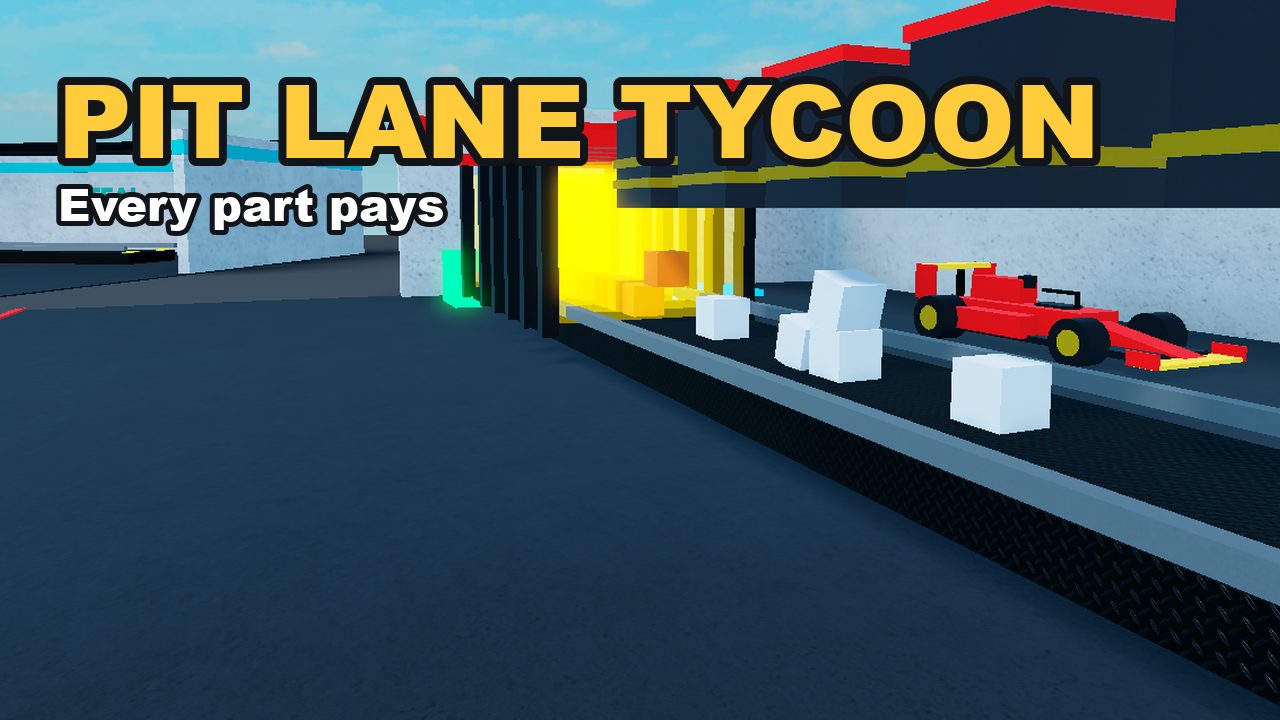
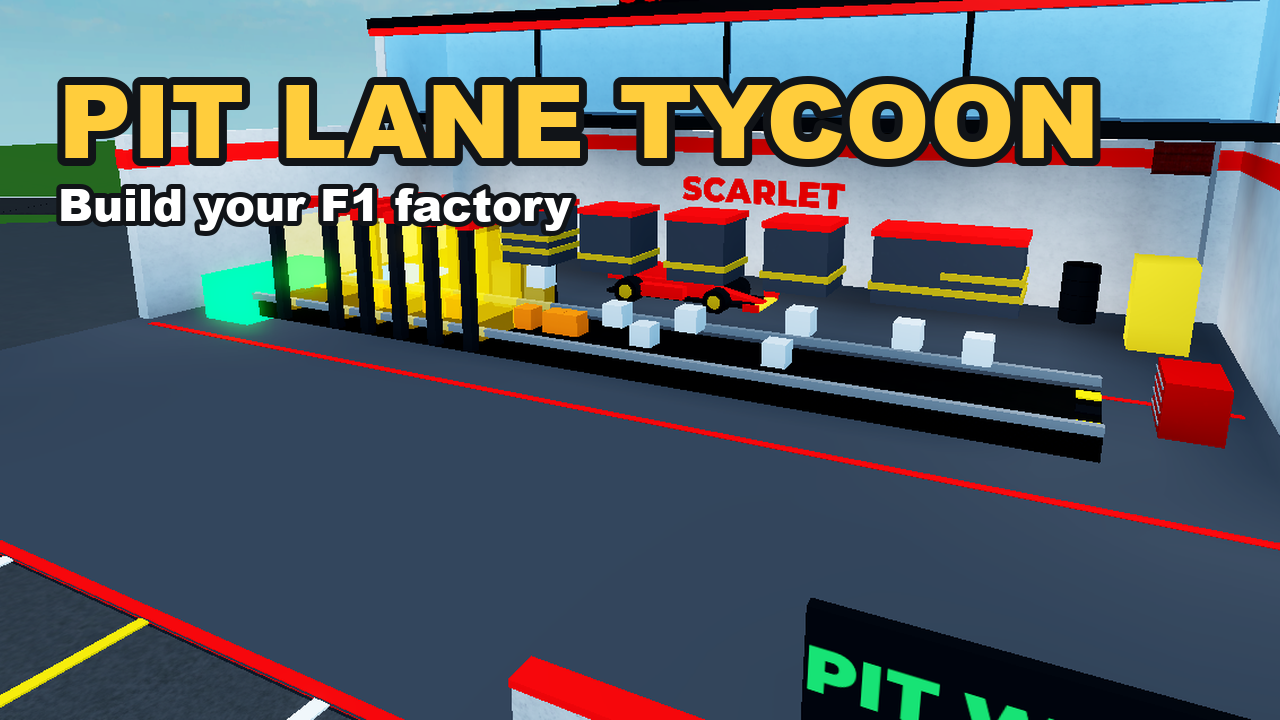
Thumbnails remade from the finished game: the race car at the gantry, the full garage, the line, the paddock
Four thumbnails now (the first is the car on the track) and the icon.
Photos hide the plot's name board, a blank red block without its label.

diff --git a/tools/studio-test/thumbnails.py b/tools/studio-test/thumbnails.py
@@ -71,12 +71,13 @@ def main() -> None:
     shots, out = Path(sys.argv[1]), Path(sys.argv[2])
     out.mkdir(parents=True, exist_ok=True)
     views = {}
-    for name in ("hero", "car", "line", "paddock"):
+    for name in ("race", "hero", "car", "line", "paddock"):
         vp = viewport(Image.open(shots / f"{name}.png"))
         views[name] = vp.crop((0, int(vp.height * 0.17), vp.width, vp.height))  # below the menu buttons
-    titled(views["hero"], (1280, 720), "PIT LANE TYCOON", "Build your F1 factory").save(out / "thumbnail-1.png")
-    titled(views["line"], (1280, 720), "PIT LANE TYCOON", "Every part pays").save(out / "thumbnail-2.png")
-    titled(views["paddock"], (1280, 720), "PIT LANE TYCOON", "Six teams. One trophy.").save(out / "thumbnail-3.png")
+    titled(views["race"], (1280, 720), "PIT LANE TYCOON", "Drive your own F1 car").save(out / "thumbnail-1.png")
+    titled(views["hero"], (1280, 720), "PIT LANE TYCOON", "Build your F1 factory").save(out / "thumbnail-2.png")
+    titled(views["line"], (1280, 720), "PIT LANE TYCOON", "Every part pays").save(out / "thumbnail-3.png")
+    titled(views["paddock"], (1280, 720), "PIT LANE TYCOON", "Six teams. One trophy.").save(out / "thumbnail-4.png")
     icon = car_icon(views["car"])
     icon.save(out / "icon.png")
     for f in sorted(out.glob("*.png")):

diff --git a/docs/LAUNCH.md b/docs/LAUNCH.md
@@ -58,7 +58,7 @@ Everything else is built and tested; these need your account, your ears or other
    are six garages, and a seventh player would have none.
 3. **Icon and thumbnails** matter more than anything else for clicks: a bright car on a
    conveyor, big readable title, no small text. Ready-made ones are in `marketing/`
-   (`icon.png` 512x512, `thumbnail-1..3.png` 1280x720); upload all three thumbnails so Roblox
+   (`icon.png` 512x512, `thumbnail-1..4.png` 1280x720); upload all four thumbnails so Roblox
    rotates them. They contain no avatar or username. To remake them after a visual change:
    `python tools/studio-test/run.py PitLaneTycoon.rbxlx --photos --shots shots` then
    `python tools/studio-test/thumbnails.py shots marketing`.
